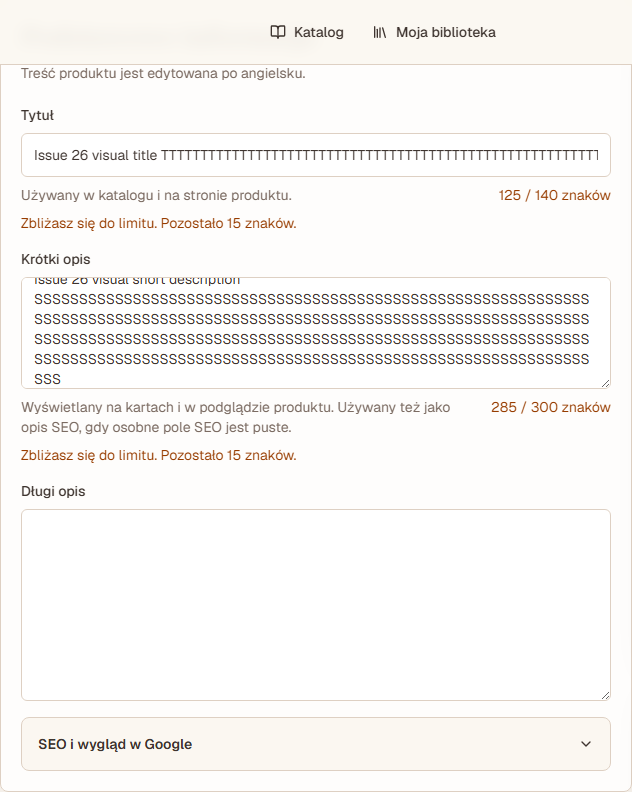
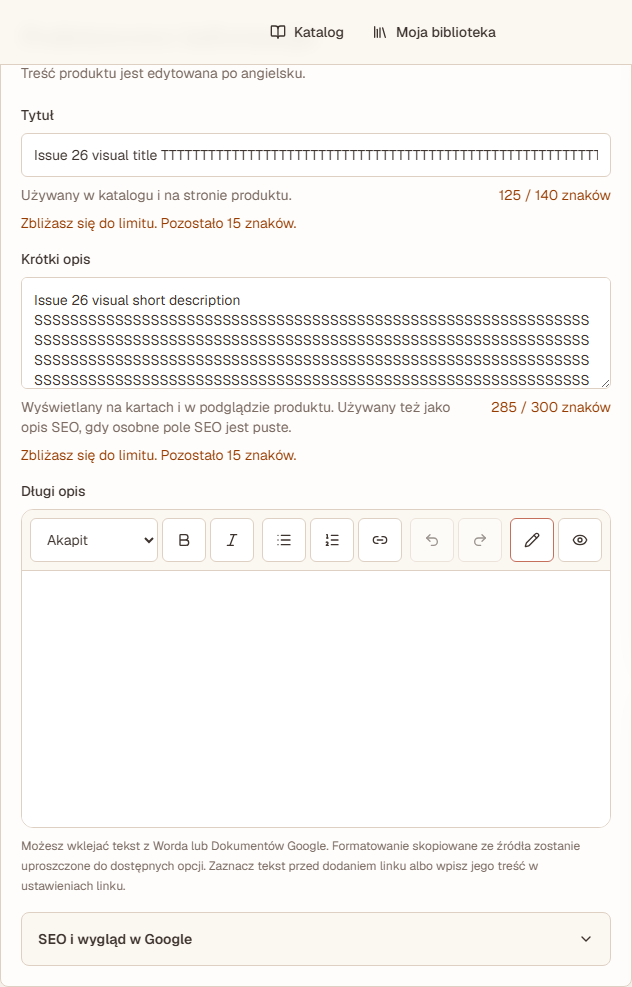
test: reset product description scroll for screenshots

diff --git a/tests/e2e/issue-26-product-text.spec.ts b/tests/e2e/issue-26-product-text.spec.ts
@@ -158,6 +158,9 @@ test("product text fields count, warn, survive failed saves, and persist on crea
       (document.activeElement as HTMLElement | null)?.blur();
       window.scrollTo({ top: 0, behavior: "instant" });
     });
+    await page.getByLabel("Krótki opis").evaluate((element: HTMLTextAreaElement) => {
+      element.scrollTop = 0;
+    });
     await expect(page.locator("#product-title-counter")).toHaveText("125 / 140 znaków");
     await expect(page.locator("#product-short-description-counter")).toHaveText("285 / 300 znaków");
     await expect(page.getByText("Zbliżasz się do limitu. Pozostało 15 znaków.")).toHaveCount(2);
